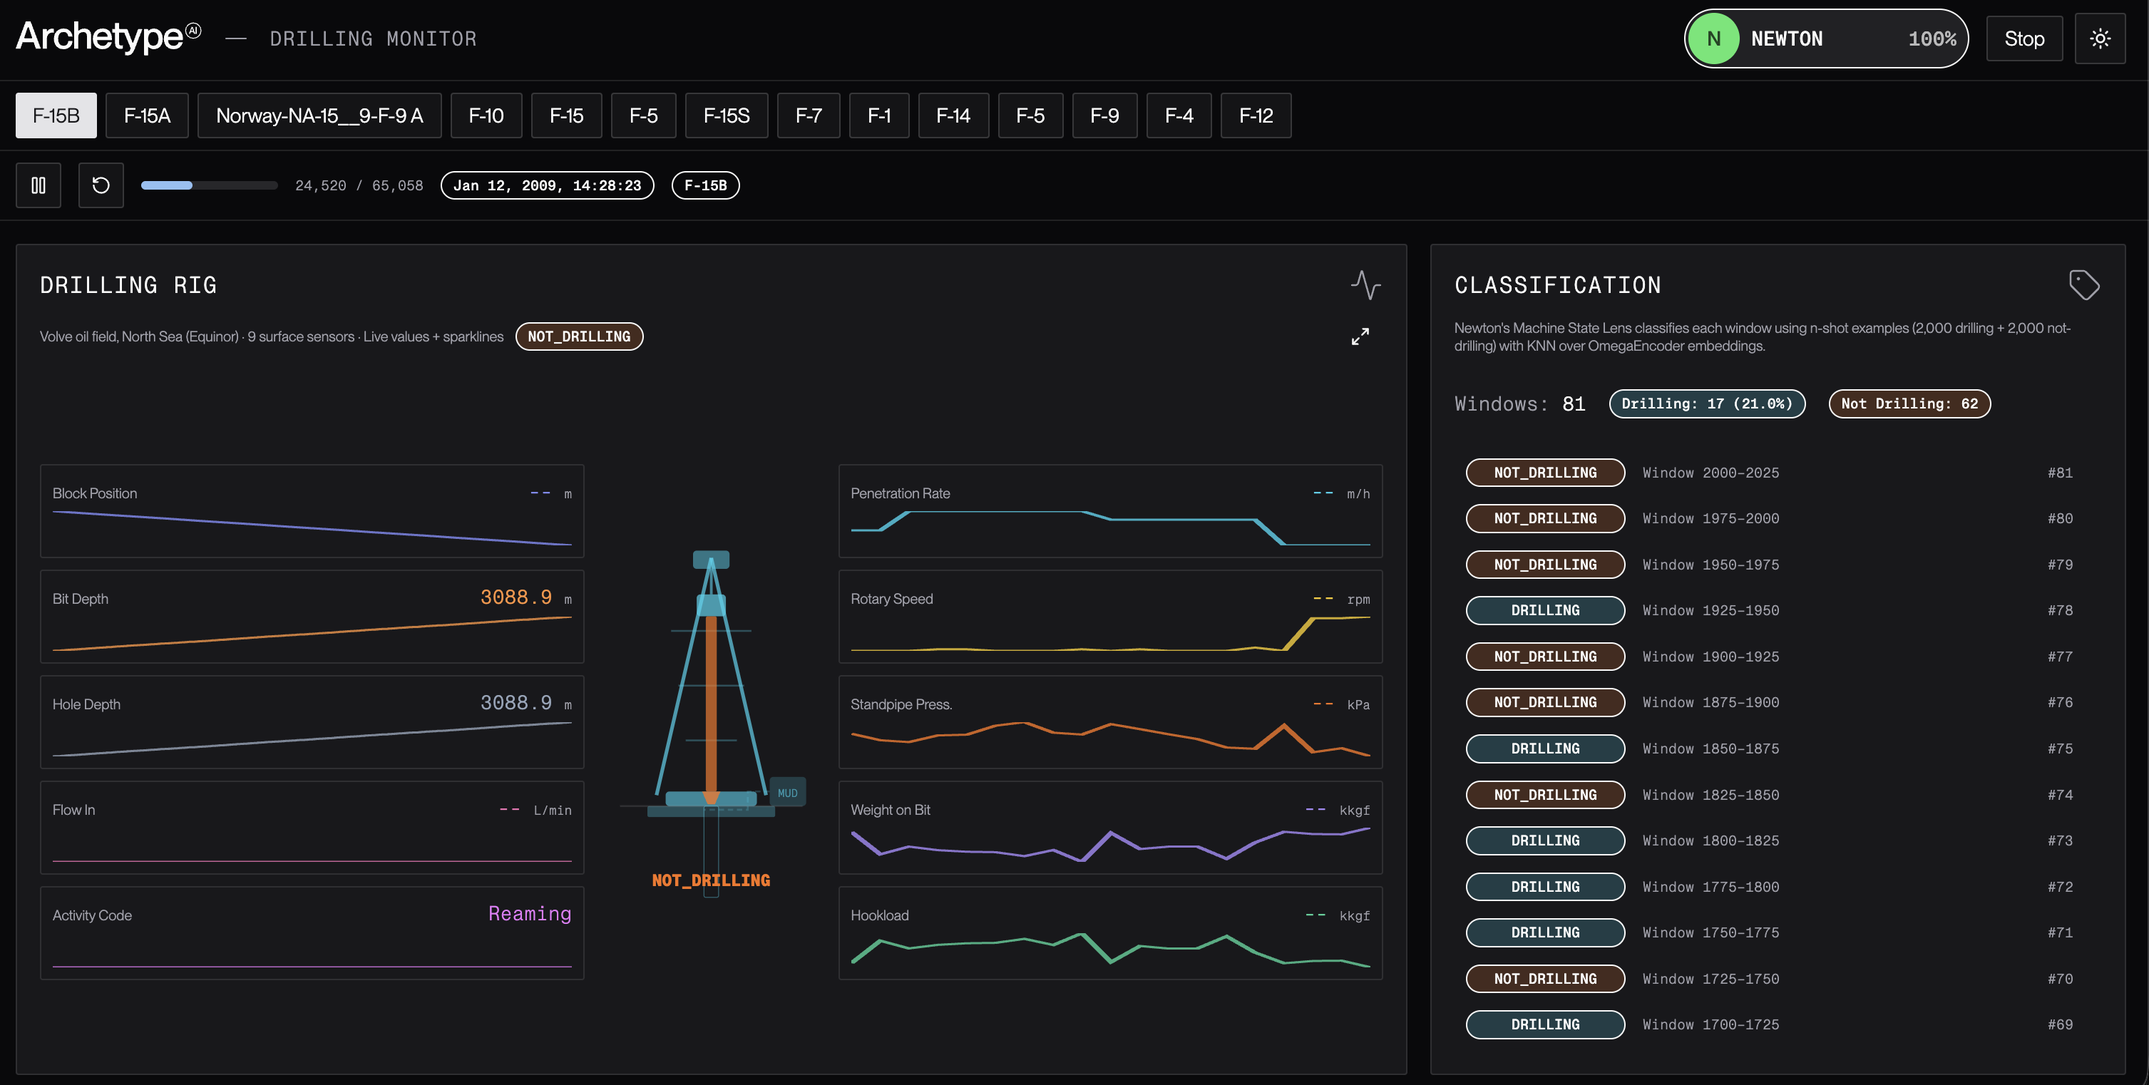
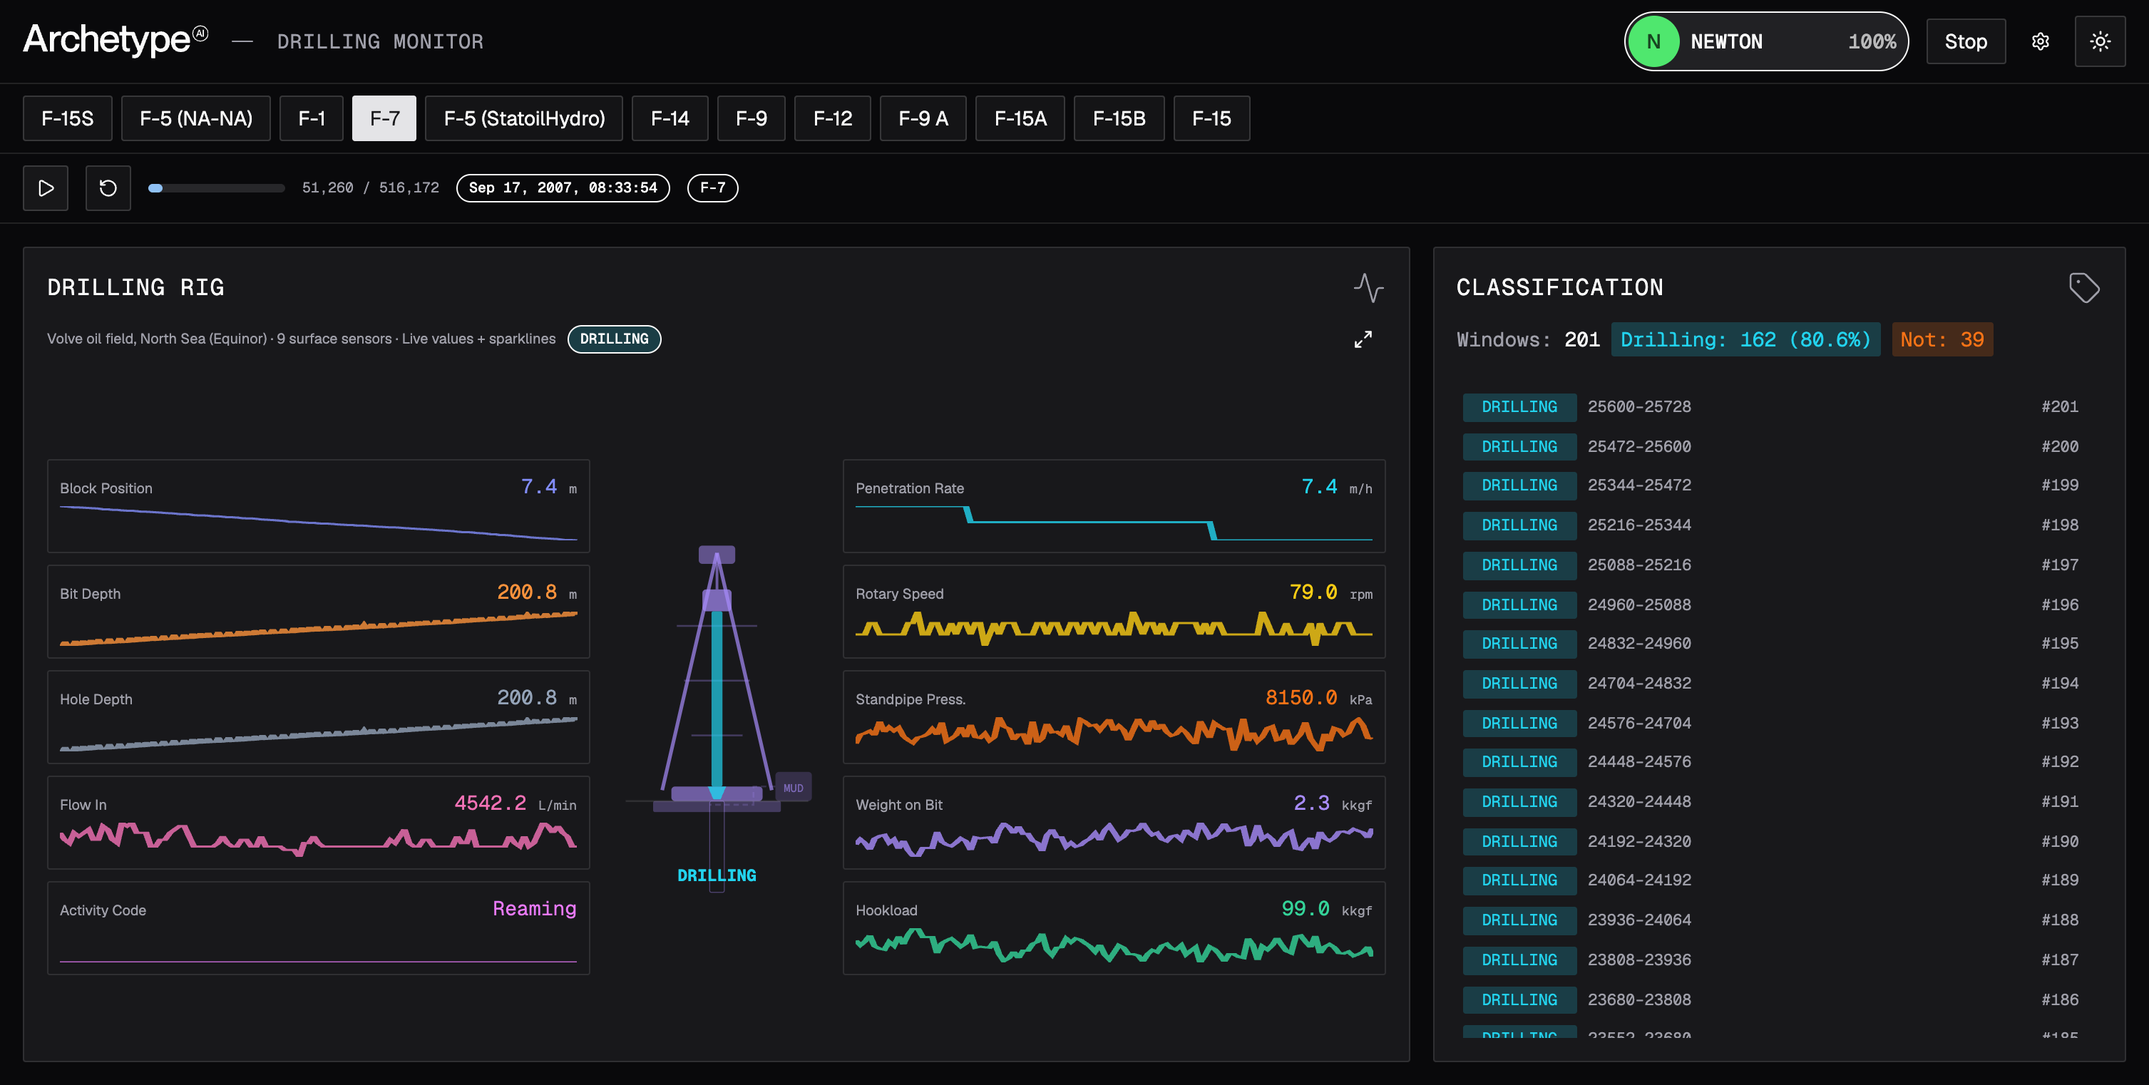
Update the README, screenshot and Advanced panel for Omega 1.5
README: Inference API setup and request shapes, per-well accuracy on
production with Omega 1.5, latency, sessions and a Licence section.
New screenshot with Geist. The Advanced panel now shows the library's
real size (18 references per class) and search (brute force).

diff --git a/src/routes/+page.svelte b/src/routes/+page.svelte
@@ -22,11 +22,11 @@
 	const DEFAULT_CONFIG = {
 		windowSize: 128,
 		stepSize: 128,
-		nShotPerClass: 2000,
+		nShotPerClass: 18, // scripts/build-knn-library.js --cap
 		nNeighbors: 3,
 		metric: 'euclidean',
 		weights: 'uniform',
-		algorithm: 'ball_tree'
+		algorithm: 'brute force'
 	};
 
 	const WINDOW_SIZE = DEFAULT_CONFIG.windowSize;

diff --git a/README.md b/README.md
@@ -2,7 +2,9 @@
 
 Drilling state classification dashboard powered by [Newton](https://www.archetypeai.io/) and the [Equinor Volve Data Village](https://www.equinor.com/energy/volve-data-sharing).
 
-Plays back real drilling sensor data from 14 wells in the Volve oil field (North Sea, 2007–2009 drilling phase) and uses Newton's **Direct Query API** to classify each data window as **drilling** or **not_drilling**: every window is embedded per-channel by the Omega encoder (one stateless `/query` call per sensor) and scored by a **local KNN** against an n-shot reference library — no lens, no session, no SSE. Includes live evaluation against ACTC ground truth.
+Plays back real drilling sensor data from 14 wells in the Volve oil field (North Sea, 2007–2009 drilling phase) and classifies each data window as **drilling** or **not_drilling**: **Newton Omega 1.5** embeds every window through the Archetype AI **Inference API**, and a **local KNN** scores it against an n-shot reference library. Includes live evaluation against ACTC ground truth.
+
+Moved from the [Direct Query version](https://github.com/archetypeai/archetypeai-drilling-demo) (Omega 1.4 on `/api/lens/query`). See [MIGRATION.md](MIGRATION.md) for what changed and how the two compare.
 
 > The Volve field operated 2007–2016, but real-time drilling sensor data only covers the 2007–2009 construction phase. After 2009 the rig left and the field moved to production (different file types, no real-time WITSML streams).
 
@@ -13,10 +15,10 @@ Plays back real drilling sensor data from 14 wells in the Volve oil field (North
 - **14 wells** from the Volve North Sea oil field, sorted by class balance (wells with both drilling and not-drilling activity first)
 - **Rig instrument panel** — SVG drilling rig with 10 live sensor sparklines (9 channels + ACTC ground truth)
 - **Playback controls** — play, pause, reset with progress bar, human-friendly timestamps
-- **Direct Query classification** — each 128-sample window is embedded by Omega (`/query`) and classified by a local KNN as drilling or not_drilling
+- **Inference API classification** — each 128-sample window is embedded by Omega 1.5 in one session query and classified by a local KNN as drilling or not_drilling
 - **Classification log** — scrolling list of predictions with drilling/not-drilling counts
 - **N-shot library (leakage-free)** — built offline from two **held-out reference wells** (F-10, F-4) that are excluded from the well selector, so every well you can classify is genuinely unseen. Unanimous-ACTC windows from those wells are embedded into a local KNN library (`data/knn-library.json`) by `scripts/build-knn-library.js`
-- **Synchronous per-window inference** — `POST /api/classify` returns the verdict for each window directly (no streaming session to manage)
+- **Synchronous per-window inference** — `POST /api/classify` returns the verdict for each window directly; the server keeps one Omega session open and reuses it
 - **Incremental data loading** — full raw CSVs (up to 1.9M rows) loaded in 5,000-row chunks during playback
 - **Auto-seek** — automatically starts playback at the section with the best drilling/not-drilling balance (scored by unanimous windows, not raw rows)
 
@@ -26,28 +28,30 @@ Plays back real drilling sensor data from 14 wells in the Volve oil field (North
 
 ## Notes on the Encoder
 
-The classifier embeds with `OmegaEncoder::omega_embeddings_1_4` (generic time-series encoder, the current prod default per the [`atai-newton-omega-model`](https://github.com/archetypeai/agent-skills/tree/main/skills/atai-newton-omega-model) skill). Each sensor channel is sent as its own `/query` call with `normalize_input: false`; every window is pre-normalized with a fixed global scaler (`data/scaler.json`) so cross-window amplitude is preserved rather than erased by per-window normalization. The per-channel 768-d embeddings are concatenated into the joint feature the KNN compares.
+The classifier embeds with **Omega 1.5** (`omega-embedding` on the Inference API). Every window is scaled with a fixed global scaler (`data/scaler.json`) first, so cross-window amplitude is preserved rather than erased by per-window normalization. All nine channels go to the session in one query, and the per-channel 768-d embeddings come back concatenated in channel order: the joint 6,912-d feature the KNN compares.
 
-The encoder is hardcoded to `omega_embeddings_1_4`. To try a different encoder, change `OMEGA_MODEL` in `src/lib/server/newton.js` **and** in `scripts/build-knn-library.js`, then rebuild the library — the library embeddings and the live query path must use the same encoder, since different encoders produce different vectors (same `[N × 768]` shape, different values) and KNN distances over them are not comparable.
+The library and the live query path must use the same encoder and window length: different encoders produce unrelated vectors (same shape, different values), and KNN distances across them mean nothing. If you change `OMEGA_MODEL` in `src/lib/inference-client.js` or `windowSize` in `DEFAULT_CONFIG`, rebuild the library.
 
-**Per-well accuracy (held-out, prod).** Measured against prod (`omega_embeddings_1_4`) with the leakage-free library, scoring up to 15 unanimous-ACTC windows per class per well (window=128, k=3), DRILLING as the positive class:
+### Per-well accuracy
+
+`node scripts/eval-wells.js` scores the library on every playable well. For each well it takes up to 15 unanimous-ACTC windows per class, evenly spaced through the well (window 128, k=3), with DRILLING as the positive class. On production (Omega 1.5, 2026-11-13; about 2 minutes):
 
 | Well | Accuracy | F1 | Eval windows |
-|---|---:|---:|---|
+|---|---:|---:|---:|
+| F-1 | 100% | 100% | 30 |
 | F-14 | 100% | 100% | 30 |
-| F-9 | 93% | 93% | 30 |
-| F-12 | 93% | 93% | 30 |
-| F-5 (NA-NA) | 90% | 91% | 30 |
-| F-5 (StatoilHydro) | 87% | 87% | 30 |
-| F-15S | 83% | 81% | 30 |
-| F-1 | 83% | 80% | 30 |
-| F-7 | 83% | 80% | 30 |
+| F-9 | 100% | 100% | 30 |
+| F-12 | 97% | 97% | 30 |
+| F-5 (NA-NA) | 93% | 94% | 30 |
+| F-5 (StatoilHydro) | 93% | 94% | 30 |
+| F-7 | 93% | 93% | 30 |
+| F-15S | 87% | 86% | 30 |
 | F-9 A † | 83% | 85% | 24 |
-| F-15B † | 65% | 79% | 17 |
-| F-15 † | 65% | 77% | 20 |
-| F-15A † | 38% | 55% | 29 |
+| F-15B † | 71% | 83% | 17 |
+| F-15 † | 50% | 67% | 20 |
+| F-15A † | 41% | 56% | 29 |
 
-Across the **8 wells with substantive both-class activity**, held-out accuracy averages **~88%** (F1 ~88%) — and these are *genuinely unseen* wells (the references come only from held-out F-10 + F-4). That's notably better than the pre-fix figures, which were measured under data leakage and a different encoder.
+Across the **8 wells with substantive both-class activity**, held-out accuracy averages **95%** (F1 95%), and these are genuinely unseen wells: the references come only from the held-out F-10 and F-4. [MIGRATION.md](MIGRATION.md) compares this with Omega 1.4 on the same windows.
 
 † **Single-class wells** (>99% drilling: F-9 A, F-15, F-15A, F-15B) have only 2–14 not-drilling windows in the entire well, so a balanced sample over-weights that rare class and the metric is noisy/misleading — see [Single-class wells show misleading metrics](#single-class-wells-show-misleading-metrics). They're sorted to the end of the selector.
 
@@ -55,7 +59,8 @@ Across the **8 wells with substantive both-class activity**, held-out accuracy a
 
 - **SvelteKit** with Svelte 5 runes
 - **Archetype AI Design System** — semantic tokens, component primitives, composite patterns
-- **Newton Direct Query API** — per-channel Omega `/query` embeddings + local KNN classification
+- **Archetype AI Inference API** — Omega 1.5 embeddings from one session + local KNN classification
+- **Geist and Geist Mono** — open-source fonts (SIL Open Font License) in place of the design system's PP Neue Montreal
 - **Tailwind v4** — styling with semantic design tokens
 
 ## Dataset
@@ -78,22 +83,26 @@ The [Equinor Volve Data Village](https://www.equinor.com/energy/volve-data-shari
 
 ## Setup
 
-Requires [Git LFS](https://git-lfs.com) (the well CSVs and the precomputed KNN library are stored via LFS):
+Requires Node.js 20 or later and [Git LFS](https://git-lfs.com) (the 14 well CSVs, about 1.1 GB, are stored via LFS):
 
 ```bash
 git lfs install
-git clone <repo>          # LFS pulls static/data/wells/*.csv and data/knn-library.json
+git clone https://github.com/archetypeai/archetypeai-drilling-demo-model-serving.git
+cd archetypeai-drilling-demo-model-serving
 npm install
+cp .env.example .env      # then add your API key
 ```
 
-Create a `.env` file:
+`.env` holds your Archetype AI API key and the production endpoint:
 
 ```
 ATAI_API_KEY=your_api_key_here
-ATAI_API_ENDPOINT=https://api.u1.archetypeai.app/
+ATAI_API_ENDPOINT=https://platform.u1.archetypeai.app
 ```
 
-`data/scaler.json` and `data/knn-library.json` are **committed** (the library via Git LFS), so the demo runs out of the box — no build step needed for a normal run.
+The `.env` file wins over any `ATAI_*` variables exported in your shell (see `vite.config.js`).
+
+`data/scaler.json` and `data/knn-library.json` are committed, so the demo runs out of the box — no build step needed for a normal run.
 
 Rebuild the reference library only if you change the held-out reference wells, the window size, or the encoder:
 
@@ -102,7 +111,9 @@ node scripts/build-scaler.js        # data/scaler.json  (per-channel robust medi
 node scripts/build-knn-library.js   # data/knn-library.json  (labeled Omega embeddings)
 ```
 
-Both read the held-out reference wells from `src/lib/reference-wells.js`; `build-knn-library.js` reads `.env` directly.
+Both read the held-out reference wells from `src/lib/reference-wells.js`; `build-knn-library.js` reads `.env` directly. Building the library takes about 15 seconds.
+
+To score the library on every playable well: `node scripts/eval-wells.js` (see [Per-well accuracy](#per-well-accuracy)).
 
 ## Development
 
@@ -115,10 +126,10 @@ Open `http://localhost:5173`, select a well, click **Start Analysis**, then pres
 ## How It Works
 
 1. Select a well — data loads incrementally from full raw CSVs (up to 1.9M rows per well)
-2. **Start Analysis** arms the analysis (no lens session — Direct Query is stateless) and classifies the first window
+2. **Start Analysis** arms the analysis and classifies the first window; that first call opens the server's Omega session
 3. Press **Play** — data plays back at accelerated speed, advancing the rig sparklines and playhead
 4. The window **under the playhead** is POSTed to `/api/classify` (up to 3 in flight), so verdicts track what's on screen
-5. The server pre-normalizes the window with the global scaler, embeds each channel via Omega `/query` (`normalize_input: false`), concatenates the per-channel vectors, and runs a local KNN against `data/knn-library.json`
+5. The server scales the window with the global scaler, sends all nine channels to the Omega session in one query (one 768-d vector per channel comes back, in channel order), and runs a local KNN against `data/knn-library.json`
 6. The verdict returns synchronously and appears as colored bands on the rig and entries in the classification log
 
 ## Architecture
@@ -133,7 +144,8 @@ src/
 │       ├── wells/data/+server.js     # Paginated well data chunks
 │       └── wells/mixed-offset/       # Find best mixed section (auto-seek)
 ├── lib/
-│   ├── server/newton.js              # Direct Query embedding + local KNN
+│   ├── inference-client.js           # Inference API client: Omega session, retries, Newton query
+│   ├── server/newton.js              # Omega session per server + local KNN
 │   ├── reference-wells.js            # Held-out reference wells (F-10, F-4) + ACTC code sets
 │   ├── api/drilling.js               # Client-side fetch wrappers (classifyWindow)
 │   └── components/ui/custom/
@@ -144,8 +156,10 @@ src/
 │       └── well-selector.svelte      # Well button grid
 ├── scripts/
 │   ├── build-scaler.js               # Offline: per-channel scaler → data/scaler.json
-│   └── build-knn-library.js          # Offline: embed n-shot refs → data/knn-library.json
-├── data/                             # scaler.json (committed) + knn-library.json (committed via Git LFS)
+│   ├── build-knn-library.js          # Offline: embed n-shot refs → data/knn-library.json
+│   ├── eval-wells.js                 # Score the library on every playable well
+│   └── windows.js                    # Window helpers shared by the scripts
+├── data/                             # scaler.json + knn-library.json (both committed)
 └── static/data/
     └── wells/                        # 14 full raw well CSVs (Git LFS).
                                       # F-10 + F-4 are the held-out reference pool
@@ -154,15 +168,36 @@ src/
 
 ## Newton API Pattern
 
-This demo uses the **Direct Query API** with the Omega encoder — the same time-series pattern as the [SWaT water-treatment demo](https://github.com/archetypeai/archetypeai-swat-demo-direct-query), and the [`atai-newton-omega-model`](https://github.com/archetypeai/agent-skills/tree/main/skills/atai-newton-omega-model) skill's recommended downstream shape:
+This demo calls Omega 1.5 through the **Inference API**: the same time-series pattern as the [SWaT water-treatment demo](https://github.com/archetypeai/archetypeai-swat-demo-model-serving) and the [wind turbine demo](https://github.com/archetypeai/archetypeai-wind-turbine-demo-model-serving).
 
-| Pattern | Used In | API |
-|---------|---------|-----|
-| Vision (multi-frame `/query`) | Traffic, Wildfire | Image → classification |
-| Text reasoning (`/query`) | Earthquake, Grid | Structured text → analysis |
-| **Omega embeddings + local KNN (`/query`)** | **Drilling, SWaT, Wind Turbine** | **Time-series → state classification** |
+The server opens one Omega session with a 128-sample window and reuses it for every query:
 
-There is no lens and no session: classification is `embed each channel via /query → concatenate → KNN against the local library`, entirely under our control.
+```json
+POST /api/inference/sessions
+{ "model": "omega-embedding", "values": { "window_size": 128, "step_size": 128 } }
+→ 201 { "id": "<session id>" }
+```
+
+Each query carries one window, channel first:
+
+```json
+POST /api/inference/sessions/{id}/query
+{
+  "model": "omega-embedding",
+  "query": "",
+  "events": [
+    { "type": "data.numeric_array", "event_data": { "contents": [[/* BPOS: 128 values */], [/* DBTM */], "... 9 channels"] } }
+  ]
+}
+```
+
+The answer is one row of `9 × 768` values, the per-channel vectors in channel order:
+
+```json
+{ "response": { "success": true, "response": [[/* 6,912 values */]] } }
+```
+
+Classification is `scale → embed all 9 channels in one query → KNN against the local library`. The session is cancelled when the server stops. `src/lib/inference-client.js` handles retries, reopening an expired session and a bounded number of queries in flight.
 
 ## Classifier Config
 
@@ -172,13 +207,13 @@ There is no lens and no session: classification is `embed each channel via /quer
 { windowSize: 128, stepSize: 128, nNeighbors: 3 }   // KNN metric: euclidean
 ```
 
-The window/step were tuned with [newton-streaming-optimizer](https://github.com/archetypeai/newton-streaming-optimizer) (F1 climbed monotonically with window size: w32=85.4% → w64=97.1% → w128=100% on the bundled slice). The library is built at the same `windowSize`/`stepSize` by `scripts/build-knn-library.js`; the encoder is `OmegaEncoder::omega_embeddings_1_4` with `normalize_input: false` over the global scaler.
+The window/step were tuned with [newton-streaming-optimizer](https://github.com/archetypeai/newton-streaming-optimizer) on Omega 1.4. The library is built at the same `windowSize`/`stepSize` by `scripts/build-knn-library.js`, and the session's `window_size` is the same 128.
 
 ## Known Limitations
 
 ### Accuracy varies widely by well
 
-Held-out prod accuracy is **~88% across the 8 both-class wells** (see the per-well table above), but it varies with each well's operational profile, transition frequency, and similarity to the reference wells, and the single-class wells score lower on a balanced sample. This isn't a bug — it's the inherent limitation of few-shot classification with a generic encoder.
+Held-out prod accuracy is **95% across the 8 both-class wells** (see the per-well table above), but it varies with each well's operational profile, transition frequency, and similarity to the reference wells, and the single-class wells score lower on a balanced sample. This isn't a bug — it's the inherent limitation of few-shot classification with a generic encoder.
 
 ### No "I don't know" answer
 
@@ -198,12 +233,20 @@ The references come from two **held-out wells** — F-10 (drilling-rich) and F-4
 
 > Earlier versions sampled the n-shot examples (the bundled `volve_drilling.csv` / `volve_not_drilling.csv`) from across *all* wells, which leaked reference rows into the very wells being scored and flattered accuracy on the wells that contributed most. Those files were removed; the library is now built from the held-out wells only.
 
-### Direct Query latency
+### Latency
 
-Each window fans out 9 per-channel `/query` calls (bounded to 6 concurrent, with retries) — roughly 1–3 s per window. To stay aligned with playback, the UI classifies the window **under the playhead** rather than sequentially from the start, with up to 3 windows in flight at once (`MAX_IN_FLIGHT` in `+page.svelte`). Verdicts therefore track what's on screen; at fast playback some windows between are skipped (the log is sparse but every entry is relevant). The library is precomputed offline, so there's no per-session warm-up wait.
+One window takes about 0.3 s on production (median of 15 queries; the first query also opens the session, about 0.7 s). The UI still classifies the window **under the playhead** rather than sequentially from the start, with up to 3 windows in flight at once (`MAX_IN_FLIGHT` in `+page.svelte`), so verdicts track what's on screen even at fast playback. The library is precomputed offline, so there's no per-session warm-up wait.
+
+### Sessions
+
+The server holds one Omega session while it runs, and cancels it when it stops (Ctrl-C in `npm run dev`, or SIGINT/SIGTERM for a production build). If a process is killed without that, the session stays open until it expires; an organization can have 16 open sessions per model.
 
 ## Data Attribution
 
 The drilling sensor data used in these examples is from the **Equinor Volve Data Village**, released under a modified CC BY 4.0 license. The data may be used for commercial and non-commercial purposes but may not be resold.
 
 > Data provided by Equinor and the former Volve license partners (ExxonMobil Exploration & Production Norway AS and Bayerngas Norge AS). [Terms and Conditions](https://www.equinor.com/energy/volve-data-sharing).
+
+## Licence
+
+The code is licensed under the [Apache License 2.0](LICENSE). The Volve well data in `static/data/wells/` is not covered by that licence; it is Equinor's, under the terms above.
